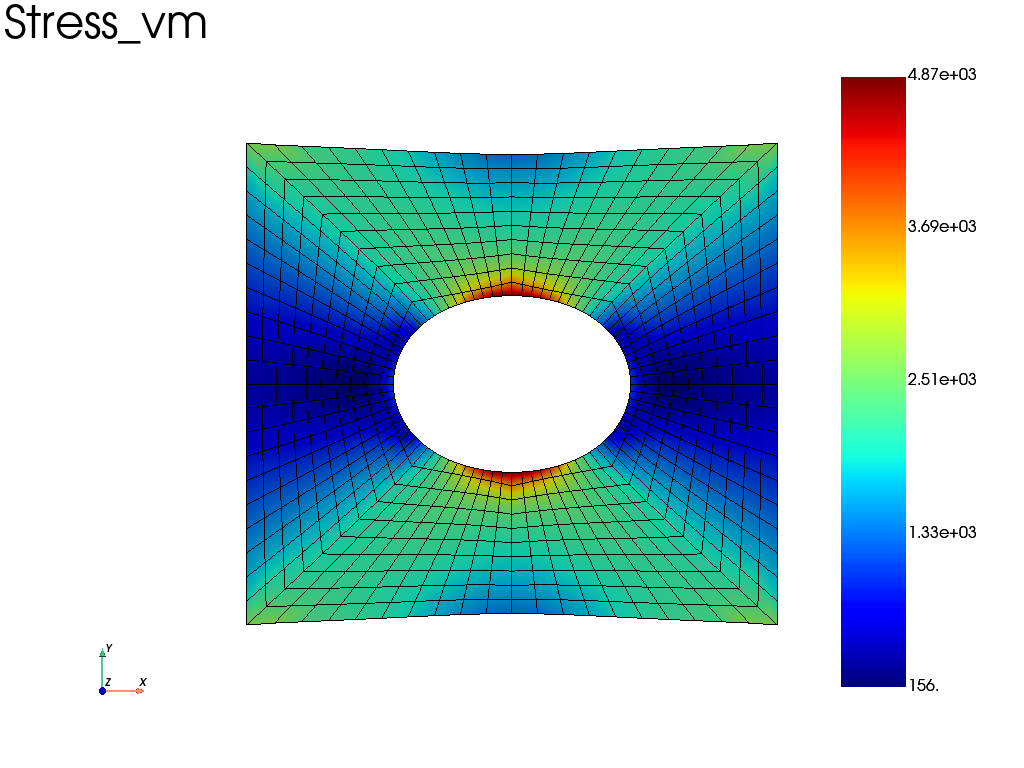
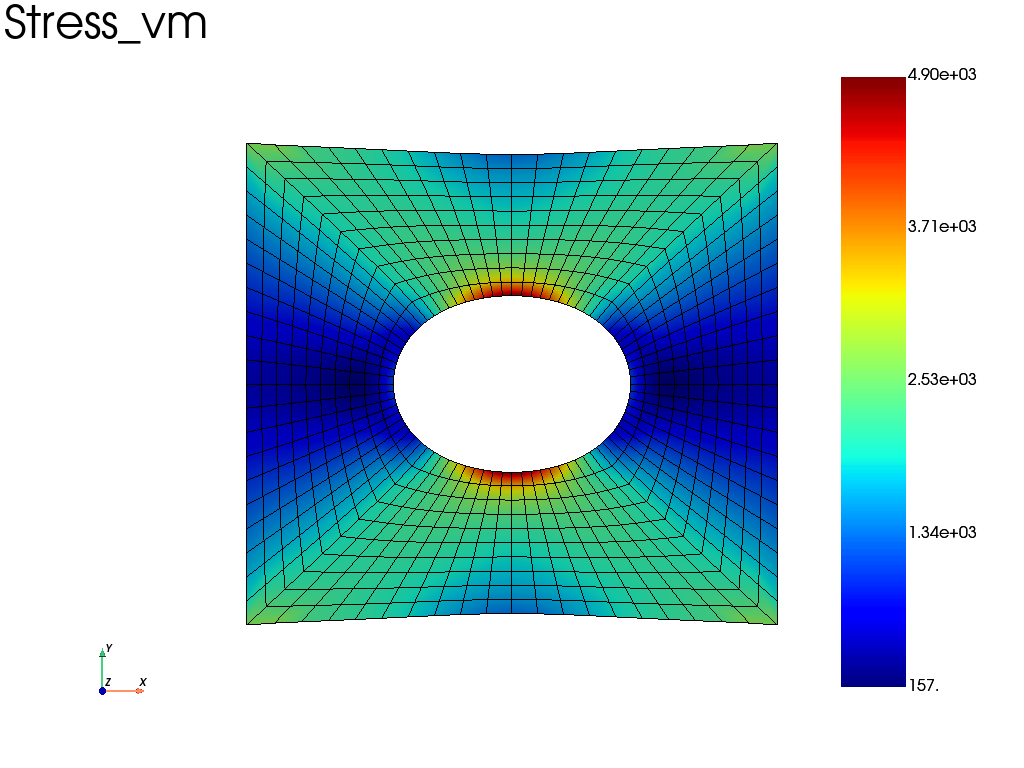
Change in mesh.hole_plate_mesh : - build a more smooth mesh which allow a bigger radius - sym = False by default (change the default value)
Add several methods to generate nodes in mesh.structured_mesh_2D

diff --git a/fedoo/mesh/simple.py b/fedoo/mesh/simple.py
@@ -380,7 +380,7 @@ def box_mesh(nx=11, ny=11, nz=11, x_min=0, x_max=1, y_min=0, y_max=1, z_min=0, z
     return returned_mesh
 
 
-def structured_mesh_2D(data, edge1, edge2, edge3, edge4, elm_type = 'quad4', ndim = None, name =""):
+def structured_mesh_2D(data, edge1, edge2, edge3, edge4, elm_type = 'quad4', method = 0, ndim = None, name =""):
 #     #edge1 and edge3 should have the same lenght 
 #     #edge2 and edge4 should have the same lenght
 #     #last node of edge1 should be the first of edge2 and so on...
@@ -396,23 +396,51 @@ def structured_mesh_2D(data, edge1, edge2, edge3, edge4, elm_type = 'quad4', ndi
     else: 
         elm = []
         crd = data
-        
-    x1 = crd[edge1,0] ; x2 = crd[edge2,0] ; x3 = crd[edge3,0][::-1] ; x4 = crd[edge4,0][::-1]
-    y1 = crd[edge1,1] ; y2 = crd[edge2,1] ; y3 = crd[edge3,1][::-1] ; y4 = crd[edge4,1][::-1] 
+    
+    edge3 = edge3[::-1]
+    edge4 = edge4[::-1]
+    x1 = crd[edge1] ; x2 = crd[edge2] ; x3 = crd[edge3] ; x4 = crd[edge4]
     new_crd = list(crd.copy())
     grid = np.empty((len(x1), len(x2)))
-    grid[0,:] = edge4[::-1] ; grid[-1,:] = edge2
-    grid[:,0] =  edge1 ; grid[:,-1] = edge3[::-1]
+    grid[0,:] = edge4 ; grid[-1,:] = edge2
+    grid[:,0] =  edge1 ; grid[:,-1] = edge3
     
     N = len(new_crd)
-    for i in range(1,len(x1)-1):                    
-        px= ( (x1[i]*y3[i]-y1[i]*x3[i])*(x2-x4)-(x1[i]-x3[i])*(x2*y4-y2*x4) ) / ( (x1[i]-x3[i])*(y2-y4)-(y1[i]-y3[i])*(x2-x4) )         
-        py= ( (x1[i]*y3[i]-y1[i]*x3[i])*(y2-y4)-(y1[i]-y3[i])*(x2*y4-y2*x4) ) / ( (x1[i]-x3[i])*(y2-y4)-(y1[i]-y3[i])*(x2-x4) )
-        
-        # x_fact = (y2-y2[0])/(y2[-1]-y2[0]) * (x1[i]-x1[0])/(x1[-1]-x1[0]) + (x3[i]-x3[0])/(x3[-1]-x3[0]))
-        # (y4-y4[0])/(y4[-1]-y4[0])
-        
-        new_crd += list(np.c_[px[1:-1],py[1:-1]])
+    coef1 = np.linspace(0,1,len(x1)).reshape(-1,1)
+    coef2 = np.linspace(0,1,len(x2)).reshape(-1,1)
+    
+    for i in range(1,len(x1)-1):  
+        if method == 0:     
+            #intesection of lines dawn between nodes of oposite edges             
+            pos = ( (x1[i,0]*x3[i,1]-x1[i,1]*x3[i,0])*(x2-x4)-(x1[i]-x3[i])*(x2[:,0]*x4[:,1]-x2[:,1]*x4[:,0]).reshape(-1,1) ) \
+                / ( (x1[i,0]-x3[i,0])*(x2[:,1]-x4[:,1])-(x1[i,1]-x3[i,1])*(x2[:,0]-x4[:,0]) ).reshape(-1,1)                
+            # px= ( (x1[i]*y3[i]-y1[i]*x3[i])*(x2-x4)-(x1[i]-x3[i])*(x2*y4-y2*x4) ) / ( (x1[i]-x3[i])*(y2-y4)-(y1[i]-y3[i])*(x2-x4) )         
+            # py= ( (x1[i]*y3[i]-y1[i]*x3[i])*(y2-y4)-(y1[i]-y3[i])*(x2*y4-y2*x4) ) / ( (x1[i]-x3[i])*(y2-y4)-(y1[i]-y3[i])*(x2-x4) )
+        elif method == 1:    
+            #nodes are regularly distributed between edge1 and  edge3 and moved in the perpendicular direction to be 
+            #as closed as possible to a regular distribution between edge2 and edge4
+            if i == 1:
+                # pos = x4
+                vec = (x2 - pos)/np.linalg.norm(x2 - pos, axis=1).reshape(-1,1)
+                
+            #prediction of position
+            pos1 = x1[i]*(1-coef2) + x3[i]*coef2
+            #uncentainty of position (pos1 - pos2) where pos2 is the position usging another method
+            dpos = x2*(coef1[i]) + x4*(1-coef1[i]) - pos1 #uncertainty about the best node position
+            #direction vector normalized (pos1-pos_old)
+            # vec = (x2 - pos)/np.linalg.norm(x2 - pos, axis=1).reshape(-1,1)
+            #pos is modified only in the direction vec
+            pos = np.sum(vec * dpos, axis=1).reshape(-1,1)*vec + pos1
+        elif method == 2:
+            #nodes are regularly distributed between edge1 and  edge3
+            pos = x1[i]*(1-coef2) + x3[i]*coef2
+        elif method == 3:
+            #nodes are regularly distributed between edge 2 and edge4
+            pos = x2*(coef1[i]) + x4*(1-coef1[i])        
+            
+
+        new_crd += list(pos[1:-1])
+        # new_crd += list(np.c_[px[1:-1],py[1:-1]])
         grid[i,1:-1] = np.arange(N,len(new_crd),1)
         N = len(new_crd)        
 
@@ -437,15 +465,42 @@ def structured_mesh_2D(data, edge1, edge2, edge3, edge4, elm_type = 'quad4', ndi
     return Mesh(np.array(new_crd), elm, elm_type, ndim, name)
 
 
-def generate_nodes(mesh, N, data, typeGen = 'straight'):
-    #if typeGen == 'straight' -> data = (node1, node2)
-    #if typeGen == 'circular' -> data = (node1, node2, (center_x, center_y))
+def generate_nodes(mesh, N, data, type_gen = 'straight'):
+    """
+    Add regularly espaced nodes to an existing mesh between to existing nodes.
+    
+    This function serve to generated structured meshes. 
+    To create a 2D stuctured mesh: 
+        - Create and mesh with only sigular nodes that will serve to build the edges
+        - Use the generate_nodes functions to add some nodes to the edge
+        - Use the structured_mesh_2D from the set of nodes corresponding the egdes to build the final mesh.
+
+    Parameters
+    ----------
+    mesh : Mesh
+        the existing mesh
+    N : int
+        Number of generated nodes.
+    data : list or tuple
+        if type_gen == 'straight', data should contain the indices of the starting (data[0]) and ending (data[1]).
+        if type_gen == 'circular', data should contain the indices of the starting (data[0]) and ending (data[1]) nodes and the coordinates of the center of the circle (data[2])
+    type_gen : str in {'straight', 'circular'}
+        Type of line generated. The default is 'straight'.
+
+    Returns
+    -------
+    np.ndarray[int]
+        array containing indices of the new generated nodes
+
+    """
+    #if type_gen == 'straight' -> data = (node1, node2)
+    #if type_gen == 'circular' -> data = (node1, node2, (center_x, center_y))
     crd = mesh.nodes    
-    if typeGen == 'straight':
+    if type_gen == 'straight':
         node1 = data[0] ; node2 = data[1]
         listNodes = mesh.add_nodes(line_mesh(N, crd[node1], crd[node2]).nodes[1:-1])
         return np.array([node1]+list(listNodes)+[node2])
-    if typeGen == 'circular':
+    if type_gen == 'circular':
         nd1 = data[0] ; nd2 = data[1] ; c = data[2]
         c = np.array(c)
         R = np.linalg.norm(crd[nd1]-c)
@@ -458,7 +513,7 @@ def generate_nodes(mesh, N, data, typeGen = 'straight'):
         return np.array([nd1]+list(listNodes)+[nd2])
 
 
-def hole_plate_mesh(nx=11, ny=11, length=100, height=100, radius=20, elm_type = 'quad4', sym= True, ndim = None, name =""):
+def hole_plate_mesh(nx=11, ny=11, length=100, height=100, radius=20, elm_type = 'quad4', sym= False, ndim = None, name =""):
     """
     Create a mesh of a 2D plate with a hole  
 
@@ -475,7 +530,8 @@ def hole_plate_mesh(nx=11, ny=11, length=100, height=100, radius=20, elm_type = 
         The type of the element generated (default='quad4')
     Sym : bool 
         Sym = True, if only the returned mesh assume symetric condition and 
-        only the quarter of the plate is returned (default=True)
+        only the quarter of the plate is returned (default=False)
+        
     Returns
     -------
     Mesh
@@ -495,11 +551,11 @@ def hole_plate_mesh(nx=11, ny=11, length=100, height=100, radius=20, elm_type = 
         edge1 = generate_nodes(m,nx,(0,1))
         edge2 = generate_nodes(m,ny,(1,2))
         edge3 = generate_nodes(m,nx,(2,5))
-        edge4 = generate_nodes(m,ny,(5,0,(0,0)), typeGen = 'circular')
+        edge4 = generate_nodes(m,ny,(5,0,(0,0)), type_gen = 'circular')
         
         edge5 = generate_nodes(m,nx,(4,3))
         edge6 = generate_nodes(m,ny,(3,2))
-        edge7 = generate_nodes(m,ny,(5,4,(0,0)), typeGen = 'circular')
+        edge7 = generate_nodes(m,ny,(5,4,(0,0)), type_gen = 'circular')
         
         m = structured_mesh_2D(m, edge1, edge2, edge3, edge4, elm_type = 'quad4')
         m = structured_mesh_2D(m, edge5, edge6, edge3, edge7, elm_type = 'quad4', ndim = ndim, name=name)
@@ -510,14 +566,14 @@ def hole_plate_mesh(nx=11, ny=11, length=100, height=100, radius=20, elm_type = 
         edge1 = generate_nodes(m,nx,(0,1))
         edge2 = generate_nodes(m,ny,(1,2))
         edge3 = generate_nodes(m,nx,(2,5))
-        edge4 = generate_nodes(m,ny,(5,0,(0,0)), typeGen = 'circular')
+        edge4 = generate_nodes(m,ny,(5,0,(0,0)), type_gen = 'circular')
         
         edge5 = generate_nodes(m,nx,(4,3))
         edge6 = generate_nodes(m,ny,(3,2))
-        edge7 = generate_nodes(m,ny,(5,4,(0,0)), typeGen = 'circular')
+        edge7 = generate_nodes(m,ny,(5,4,(0,0)), type_gen = 'circular')
         
-        m = structured_mesh_2D(m, edge1, edge2, edge3, edge4, elm_type = 'quad4')
-        m = structured_mesh_2D(m, edge5, edge6, edge3, edge7, elm_type = 'quad4', ndim = ndim)
+        m = structured_mesh_2D(m, edge1, edge2, edge3, edge4, elm_type = 'quad4',method=3)
+        m = structured_mesh_2D(m, edge5, edge6, edge3, edge7, elm_type = 'quad4', method=3, ndim = ndim)
         
         nnd = m.n_nodes
         crd = m.nodes.copy()

diff --git a/tests/test_platewithhol.py b/tests/test_platewithhol.py
@@ -6,7 +6,7 @@ fd.ModelingSpace("2Dstress")
 
 #Generate a simple structured mesh "Domain" (plate with a hole).
 mesh = fd.mesh.hole_plate_mesh(nx=11, ny=11, length=100, height=100, radius=20, \
-	elm_type = 'quad4', name ="Domain") 
+	elm_type = 'quad4', name ="Domain")
 
 #Define an elastic isotropic material with E = 2e5MPa et nu = 0.3 (steel)
 fd.constitutivelaw.ElasticIsotrop(2e5, 0.3, name = 'ElasticLaw') 
@@ -45,8 +45,8 @@ res = pb.get_results("Assembly", ['Stress_vm','Strain'], 'Node')
 U = pb.get_disp()
 
 assert U[0,22] == 0.1
-assert np.abs(U[1,22] +0.010440829731661383) < 1e-15
-assert np.abs(res.node_data['Stress_vm'][53]-350.1929992233047) < 1e-15
+assert np.abs(U[1,22] +0.01962855744173) < 1e-10
+assert np.abs(res.node_data['Stress_vm'][53]-175.50126302014) < 1e-10
 
 # res.plot('Stress_vm')
 # fd.util.field_plot_2d("Assembly", disp = pb.get_disp(), dataname = 'stress', component='vm', data_min=None, data_max = None, scale_factor = 6, plot_edge = True, nb_level = 10, type_plot = "smooth")

diff --git a/example/plasticity/plastic_bending_3D.py b/example/plasticity/plastic_bending_3D.py
@@ -24,7 +24,6 @@ uimp = -8
 
 mesh = fd.mesh.box_mesh(nx=21, ny=7, nz=7, x_min=0, x_max=L, y_min=0, y_max=h, z_min = 0, z_max = w, elm_type = 'hex8', name = meshname)
 
-
 crd = mesh.nodes 
 
 mat =1
